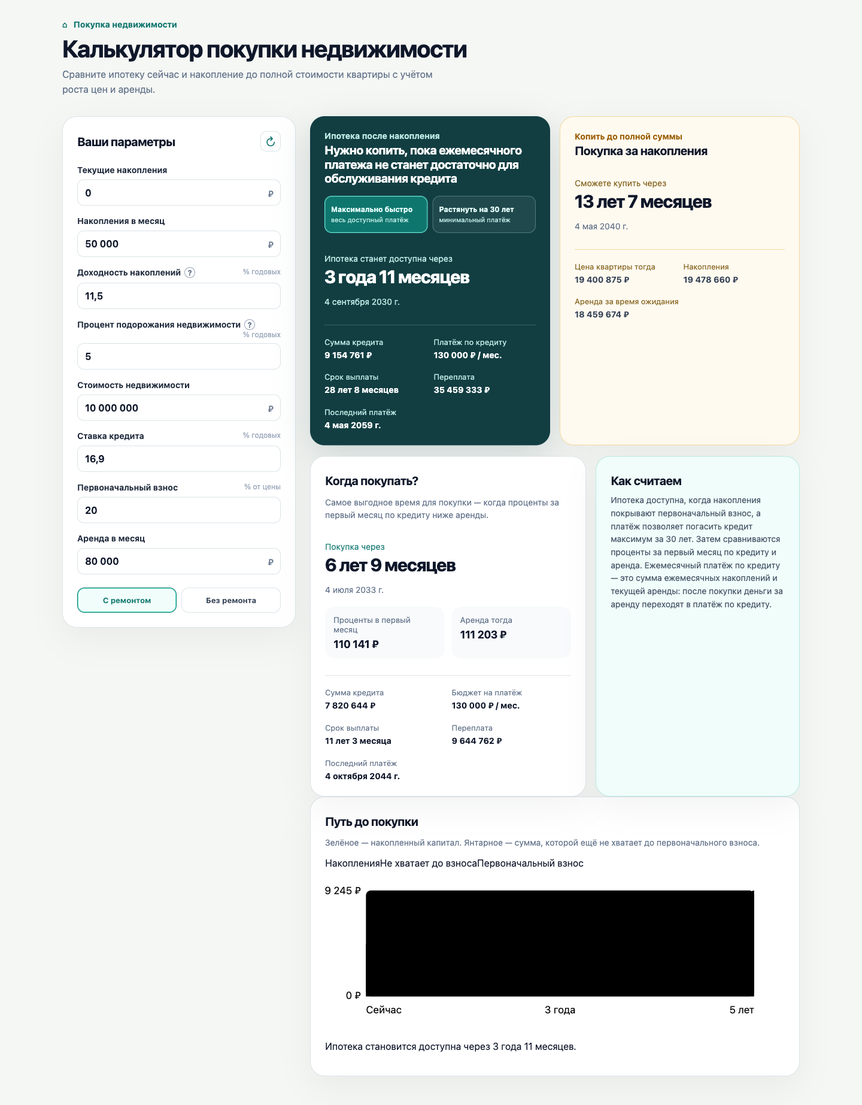
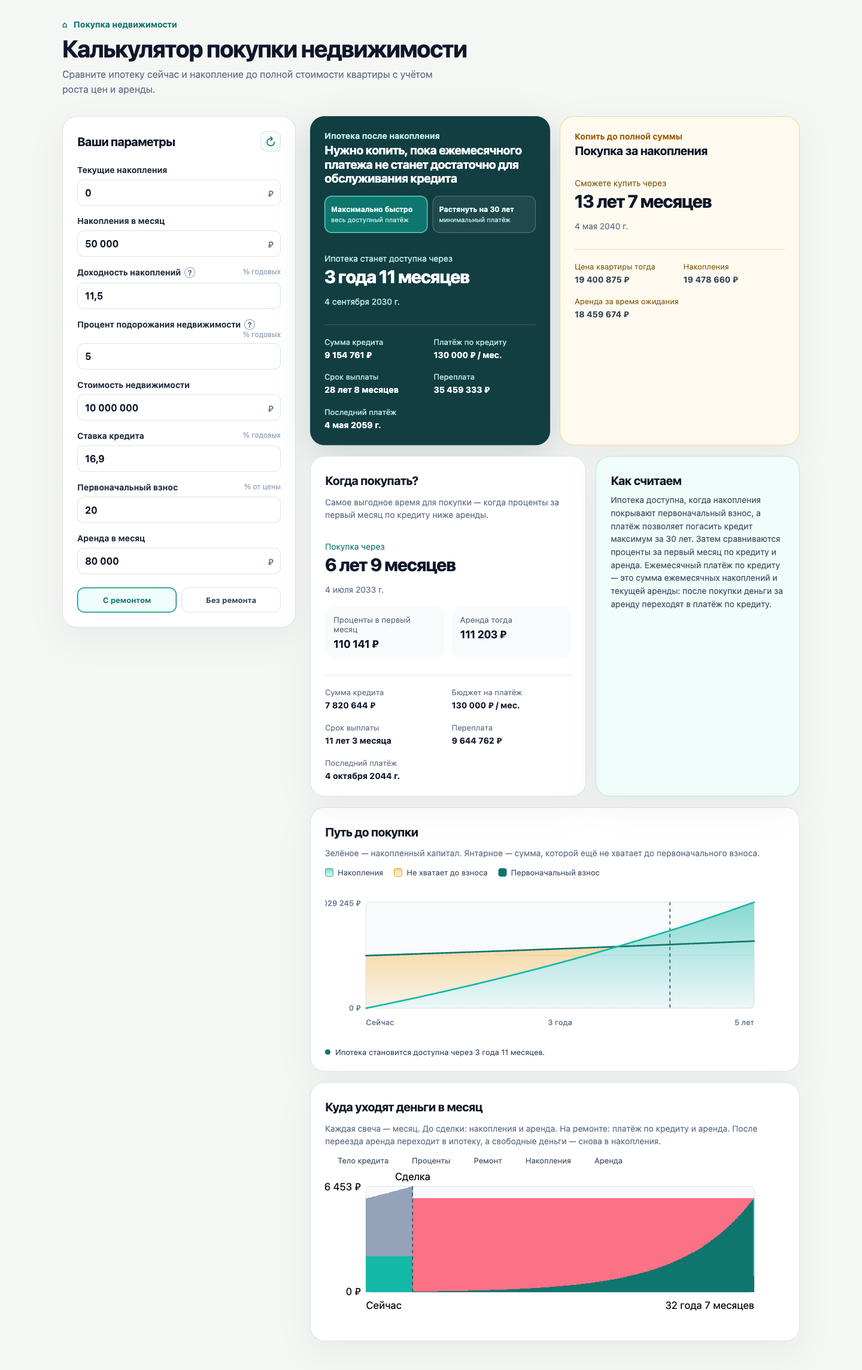
Add monthly cashflow stacked-bar chart (#10)
buildCashflow decomposes every month of the card's mortgage scenario
into principal, interest, renovation, savings and rent. The chart
shows the model's core story: the monthly envelope stays at
savings-plus-rent, with rent converting into the mortgage payment
after move-in. Tooltips per month, deal/move markers, README
section and screenshot.

diff --git a/src/App.vue b/src/App.vue
@@ -1,6 +1,6 @@
 <script setup>
 import { computed, nextTick, onMounted, reactive, ref } from 'vue';
-import { DEFAULTS, SIMULATION_HORIZON_MONTHS, RENOVATION_COST_SHARE, calculate, isMortgagePaymentTooLow, buildJourney, rentPaidUntilMonth } from './lib/model.js';
+import { DEFAULTS, SIMULATION_HORIZON_MONTHS, RENOVATION_COST_SHARE, calculate, isMortgagePaymentTooLow, buildJourney, buildCashflow, rentPaidUntilMonth } from './lib/model.js';
 import { addMonths, formatDate, duration } from './lib/format.js';
 
 const inputs = reactive({ ...DEFAULTS });
@@ -47,6 +47,41 @@ const setRenovationCost = (event) => {
 const result = computed(() => calculate(inputs, repaymentMode.value, { needed: renovationNeeded.value, cost: renovationCost.value, months: renovationMonths.value, funding: renovationFunding.value }));
 const mortgagePaymentTooLow = computed(() => isMortgagePaymentTooLow(result.value));
 const journey = computed(() => buildJourney(inputs, result.value.mortgageAffordable, result.value.mortgageAtDownPayment));
+const CASHFLOW_SEGMENTS = [
+  { key: 'principal', label: 'Тело кредита', pick: (row) => row.principal },
+  { key: 'interest', label: 'Проценты', pick: (row) => row.interest },
+  { key: 'renovation', label: 'Ремонт', pick: (row) => row.renovation },
+  { key: 'savings', label: 'Накопления', pick: (row) => row.savings },
+  { key: 'rent', label: 'Аренда', pick: (row) => row.rent }
+];
+const cashflow = computed(() => buildCashflow(inputs, repaymentMode.value, { needed: renovationNeeded.value, cost: renovationCost.value, months: renovationMonths.value, funding: renovationFunding.value }));
+const cashflowChart = computed(() => {
+  const data = cashflow.value;
+  if (!data) return null;
+  const total = data.rows.length;
+  const barWidth = 608 / total;
+  const rows = data.rows.map((row) => {
+    const segments = [];
+    let top = 200;
+    for (const segment of CASHFLOW_SEGMENTS) {
+      const value = segment.pick(row);
+      if (value < 0.5) continue;
+      const height = value / data.maximum * 166;
+      top -= height;
+      segments.push({ key: segment.key, y: top, height, label: segment.label, value });
+    }
+    const parts = segments.filter(({ value }) => value >= 1).map(({ label, value }) => `${label}: ${money.format(value)}`);
+    return { month: row.month, x: 64 + row.month * barWidth, segments, title: `${formatDate(addMonths(new Date(), row.month))} — ${parts.join(', ')}` };
+  });
+  const marker = (month) => 64 + month * barWidth;
+  return {
+    rows, barWidth,
+    maximum: data.maximum, maxLabel: money.format(data.maximum),
+    dealX: data.dealMonth > 0 ? marker(data.dealMonth) : null,
+    moveX: data.moveMonth > data.dealMonth ? marker(data.moveMonth) : null,
+    endLabel: duration(total)
+  };
+});
 const moveDate = (month) => month > SIMULATION_HORIZON_MONTHS ? 'Не достижимо' : formatDate(addMonths(new Date(), month));
 const moveRent = (month) => month > SIMULATION_HORIZON_MONTHS ? '—' : money.format(rentPaidUntilMonth(inputs, month));
 const reset = () => { Object.assign(inputs, DEFAULTS); focusedAmount.value = null; renovationNeeded.value = false; renovationFunding.value = 'before'; renovationMonths.value = 6; renovationCostDraft.value = null; renovationCostInput.value = ''; renovationFocused.value = false; };
@@ -76,5 +111,5 @@ onMounted(() => { const context = document.modelContext; if (!context?.registerT
     <p v-else class="empty">Первоначальный взнос не накапливается в горизонте 60 лет.</p>
   </article>
   <article class="card cash"><p class="kicker">Копить до полной суммы</p><h2>Покупка за накопления</h2><template v-if="result.cashPurchase"><p class="big-label">Сможете купить через</p><p class="big">{{ duration(result.cashPurchase.month) }}</p><p class="muted">{{ formatDate(addMonths(new Date(), result.cashPurchase.month)) }}</p><dl><div><dt>Цена квартиры тогда</dt><dd>{{ money.format(result.cashPurchase.price) }}</dd></div><div><dt>Накопления</dt><dd>{{ money.format(result.cashPurchase.balance) }}</dd></div><div class="wide"><dt>Аренда за время ожидания</dt><dd>{{ money.format(result.cashPurchase.rentPaid) }}</dd></div><div v-if="renovationNeeded" class="wide"><dt>Дата переезда</dt><dd>{{ moveDate(result.cashPurchase.moveMonth) }}</dd></div></dl></template><p v-else class="empty">При этих параметрах накопления не догоняют стоимость недвижимости за 60 лет. Увеличьте ежемесячный взнос или доходность вклада.</p></article></div>
-  <div class="bottom"><article class="card threshold"><h2>Когда покупать?</h2><p class="muted">Самое выгодное время для покупки — когда проценты за первый месяц по кредиту ниже аренды.</p><template v-if="result.thresholdPurchase"><p class="big-label">Покупка через</p><p class="big">{{ duration(result.thresholdPurchase.month) }}</p><p class="muted">{{ formatDate(addMonths(new Date(), result.thresholdPurchase.month)) }}</p><div class="year"><div><small>Проценты в первый месяц</small><strong>{{ money.format(result.thresholdPurchase.firstMonthInterest) }}</strong></div><div><small>Аренда тогда</small><strong>{{ money.format(result.thresholdPurchase.rent) }}</strong></div></div><dl><div><dt>Сумма кредита</dt><dd>{{ money.format(result.thresholdPurchase.principal) }}</dd></div><div><dt>Бюджет на платёж</dt><dd>{{ money.format(result.thresholdPurchase.payment) }} / мес.</dd></div><div><dt>Срок выплаты</dt><dd>{{ duration(result.thresholdPurchase.months) }}</dd></div><div><dt>Переплата</dt><dd>{{ money.format(result.thresholdPurchase.overpayment) }}</dd></div><div class="wide"><dt>Последний платёж</dt><dd>{{ formatDate(addMonths(addMonths(new Date(), result.thresholdPurchase.month), result.thresholdPurchase.months)) }}</dd></div><div v-if="renovationNeeded"><dt>Переезд</dt><dd>{{ moveDate(result.thresholdPurchase.moveMonth) }}</dd></div><div v-if="renovationNeeded" class="wide"><dt>Аренда до переезда</dt><dd>{{ moveRent(result.thresholdPurchase.moveMonth) }}</dd></div></dl></template><p v-else class="empty">В горизонте 60 лет условия покупки не выполняются.</p></article><aside class="card how"><h2>Как считаем</h2><p>Ипотека доступна, когда накопления покрывают первоначальный взнос, а платёж позволяет погасить кредит максимум за 30 лет. Затем сравниваются проценты за первый месяц по кредиту и аренда. Ежемесячный платёж по кредиту — это сумма ежемесячных накоплений и текущей аренды: после покупки деньги за аренду переходят в платёж по кредиту.</p><p v-if="renovationNeeded && renovationFunding === 'before'">Квартира без ремонта: цель накоплений — первоначальный взнос плюс стоимость ремонта, обе суммы растут вместе с ценой недвижимости. Сделка, затем ремонт — в это время аренда продолжается, а платёж по кредиту обслуживается только из ежемесячных накоплений. Аренда переходит в платёж по кредиту после переезда.</p><p v-if="renovationNeeded && renovationFunding === 'after'">Ремонт после покупки: сделка — при накоплении первоначального взноса. Пока ремонт не оплачен, кредит обслуживается 30-летним аннуитетом, а излишек «накопления минус аннуитет» идёт на ремонт поэтапно. Переезд — когда завершены и работы, и оплата; после переезда свободные деньги ускоряют погашение.</p></aside></div><article class="card journey-chart"><div><h2>Путь до покупки</h2><p class="muted">Зелёное — накопленный капитал. Янтарное — сумма, которой ещё не хватает до первоначального взноса.</p></div><div class="chart-legend"><span><i class="legend-savings"></i>Накопления</span><span><i class="legend-shortage"></i>Не хватает до взноса</span><span><i class="legend-down-payment"></i>Первоначальный взнос</span></div><svg viewBox="0 0 720 250" role="img" aria-label="График накоплений и первоначального взноса"><defs><linearGradient id="savings-fill" x1="0" x2="0" y1="0" y2="1"><stop offset="0" stop-color="#14b8a6" stop-opacity=".5"/><stop offset="1" stop-color="#14b8a6" stop-opacity=".05"/></linearGradient><linearGradient id="shortage-fill" x1="0" x2="0" y1="0" y2="1"><stop offset="0" stop-color="#f59e0b" stop-opacity=".35"/><stop offset="1" stop-color="#f59e0b" stop-opacity=".08"/></linearGradient></defs><rect class="chart-frame" x="64" y="34" width="608" height="166" rx="8"/><line class="chart-grid" x1="64" y1="117" x2="672" y2="117"/><path class="chart-area-savings" :d="journey.savingsArea"/><path v-if="journey.shortageArea" class="chart-area-shortage" :d="journey.shortageArea"/><line v-if="journey.markerX !== null" class="chart-marker" :x1="journey.markerX" y1="34" :x2="journey.markerX" y2="200"/><path class="chart-line chart-down-payment" :d="journey.requiredPath"/><path class="chart-line chart-savings" :d="journey.savingsPath"/><text x="56" y="40" text-anchor="end">{{ money.format(journey.maximum) }}</text><text x="56" y="204" text-anchor="end">0 ₽</text><text x="64" y="226">Сейчас</text><text :x="journey.middleX" y="226" text-anchor="middle">{{ journey.middleLabel }}</text><text x="672" y="226" text-anchor="end">{{ journey.endLabel }}</text></svg><p v-if="journey.markerLabel" class="chart-note"><span></span>Ипотека становится доступна через {{ journey.markerLabel }}.</p><p v-else class="chart-note muted">В ближайшие 30 лет ипотека не становится доступна при текущих параметрах.</p></article></section></div></main>
+  <div class="bottom"><article class="card threshold"><h2>Когда покупать?</h2><p class="muted">Самое выгодное время для покупки — когда проценты за первый месяц по кредиту ниже аренды.</p><template v-if="result.thresholdPurchase"><p class="big-label">Покупка через</p><p class="big">{{ duration(result.thresholdPurchase.month) }}</p><p class="muted">{{ formatDate(addMonths(new Date(), result.thresholdPurchase.month)) }}</p><div class="year"><div><small>Проценты в первый месяц</small><strong>{{ money.format(result.thresholdPurchase.firstMonthInterest) }}</strong></div><div><small>Аренда тогда</small><strong>{{ money.format(result.thresholdPurchase.rent) }}</strong></div></div><dl><div><dt>Сумма кредита</dt><dd>{{ money.format(result.thresholdPurchase.principal) }}</dd></div><div><dt>Бюджет на платёж</dt><dd>{{ money.format(result.thresholdPurchase.payment) }} / мес.</dd></div><div><dt>Срок выплаты</dt><dd>{{ duration(result.thresholdPurchase.months) }}</dd></div><div><dt>Переплата</dt><dd>{{ money.format(result.thresholdPurchase.overpayment) }}</dd></div><div class="wide"><dt>Последний платёж</dt><dd>{{ formatDate(addMonths(addMonths(new Date(), result.thresholdPurchase.month), result.thresholdPurchase.months)) }}</dd></div><div v-if="renovationNeeded"><dt>Переезд</dt><dd>{{ moveDate(result.thresholdPurchase.moveMonth) }}</dd></div><div v-if="renovationNeeded" class="wide"><dt>Аренда до переезда</dt><dd>{{ moveRent(result.thresholdPurchase.moveMonth) }}</dd></div></dl></template><p v-else class="empty">В горизонте 60 лет условия покупки не выполняются.</p></article><aside class="card how"><h2>Как считаем</h2><p>Ипотека доступна, когда накопления покрывают первоначальный взнос, а платёж позволяет погасить кредит максимум за 30 лет. Затем сравниваются проценты за первый месяц по кредиту и аренда. Ежемесячный платёж по кредиту — это сумма ежемесячных накоплений и текущей аренды: после покупки деньги за аренду переходят в платёж по кредиту.</p><p v-if="renovationNeeded && renovationFunding === 'before'">Квартира без ремонта: цель накоплений — первоначальный взнос плюс стоимость ремонта, обе суммы растут вместе с ценой недвижимости. Сделка, затем ремонт — в это время аренда продолжается, а платёж по кредиту обслуживается только из ежемесячных накоплений. Аренда переходит в платёж по кредиту после переезда.</p><p v-if="renovationNeeded && renovationFunding === 'after'">Ремонт после покупки: сделка — при накоплении первоначального взноса. Пока ремонт не оплачен, кредит обслуживается 30-летним аннуитетом, а излишек «накопления минус аннуитет» идёт на ремонт поэтапно. Переезд — когда завершены и работы, и оплата; после переезда свободные деньги ускоряют погашение.</p></aside></div><article class="card journey-chart"><div><h2>Путь до покупки</h2><p class="muted">Зелёное — накопленный капитал. Янтарное — сумма, которой ещё не хватает до первоначального взноса.</p></div><div class="chart-legend"><span><i class="legend-savings"></i>Накопления</span><span><i class="legend-shortage"></i>Не хватает до взноса</span><span><i class="legend-down-payment"></i>Первоначальный взнос</span></div><svg viewBox="0 0 720 250" role="img" aria-label="График накоплений и первоначального взноса"><defs><linearGradient id="savings-fill" x1="0" x2="0" y1="0" y2="1"><stop offset="0" stop-color="#14b8a6" stop-opacity=".5"/><stop offset="1" stop-color="#14b8a6" stop-opacity=".05"/></linearGradient><linearGradient id="shortage-fill" x1="0" x2="0" y1="0" y2="1"><stop offset="0" stop-color="#f59e0b" stop-opacity=".35"/><stop offset="1" stop-color="#f59e0b" stop-opacity=".08"/></linearGradient></defs><rect class="chart-frame" x="64" y="34" width="608" height="166" rx="8"/><line class="chart-grid" x1="64" y1="117" x2="672" y2="117"/><path class="chart-area-savings" :d="journey.savingsArea"/><path v-if="journey.shortageArea" class="chart-area-shortage" :d="journey.shortageArea"/><line v-if="journey.markerX !== null" class="chart-marker" :x1="journey.markerX" y1="34" :x2="journey.markerX" y2="200"/><path class="chart-line chart-down-payment" :d="journey.requiredPath"/><path class="chart-line chart-savings" :d="journey.savingsPath"/><text x="56" y="40" text-anchor="end">{{ money.format(journey.maximum) }}</text><text x="56" y="204" text-anchor="end">0 ₽</text><text x="64" y="226">Сейчас</text><text :x="journey.middleX" y="226" text-anchor="middle">{{ journey.middleLabel }}</text><text x="672" y="226" text-anchor="end">{{ journey.endLabel }}</text></svg><p v-if="journey.markerLabel" class="chart-note"><span></span>Ипотека становится доступна через {{ journey.markerLabel }}.</p><p v-else class="chart-note muted">В ближайшие 30 лет ипотека не становится доступна при текущих параметрах.</p></article><article v-if="cashflowChart" class="card cashflow-chart"><div><h2>Куда уходят деньги в месяц</h2><p class="muted">Каждая свеча — месяц. До сделки: накопления и аренда. На ремонте: платёж по кредиту и аренда. После переезда аренда переходит в ипотеку, а свободные деньги — снова в накопления.</p></div><div class="chart-legend"><span><i class="cf-principal"></i>Тело кредита</span><span><i class="cf-interest"></i>Проценты</span><span><i class="cf-renovation"></i>Ремонт</span><span><i class="cf-savings"></i>Накопления</span><span><i class="cf-rent"></i>Аренда</span></div><svg viewBox="0 0 720 250" role="img" aria-label="Ежемесячное распределение платежей по категориям"><rect class="chart-frame" x="64" y="34" width="608" height="166" rx="8"/><line class="chart-grid" x1="64" y1="117" x2="672" y2="117"/><g v-for="row in cashflowChart.rows" :key="row.month"><title>{{ row.title }}</title><rect v-for="seg in row.segments" :key="seg.key" :class="'cf-' + seg.key" :x="row.x" :y="seg.y" :width="cashflowChart.barWidth + 0.4" :height="seg.height"/></g><line v-if="cashflowChart.dealX !== null" class="chart-marker" :x1="cashflowChart.dealX" y1="34" :x2="cashflowChart.dealX" y2="200"/><text v-if="cashflowChart.dealX !== null" :x="cashflowChart.dealX" y="24" text-anchor="middle">Сделка</text><line v-if="cashflowChart.moveX !== null" class="chart-marker" :x1="cashflowChart.moveX" y1="34" :x2="cashflowChart.moveX" y2="200"/><text v-if="cashflowChart.moveX !== null" :x="cashflowChart.moveX" y="24" text-anchor="middle">Переезд</text><text x="56" y="40" text-anchor="end">{{ cashflowChart.maxLabel }}</text><text x="56" y="204" text-anchor="end">0 ₽</text><text x="64" y="226">Сейчас</text><text x="672" y="226" text-anchor="end">{{ cashflowChart.endLabel }}</text></svg></article></section></div></main>
 </template>

diff --git a/src/lib/model.js b/src/lib/model.js
@@ -70,6 +70,21 @@ export const selectedRenovationLoanPlan = (principal, capacityDuring, capacityAf
   return plan && { ...plan, payment };
 };
 
+export const loanScheduleStepped = (principal, paymentDuring, paymentAfter, annualRate, switchMonth, maxMonths) => {
+  if (principal <= 0) return [];
+  const rate = annualRate / 100 / 12;
+  let balance = principal;
+  const rows = [];
+  for (let month = 1; month <= maxMonths && balance >= 0.01; month += 1) {
+    const interest = balance * rate;
+    const payment = Math.min(month <= switchMonth ? paymentDuring : paymentAfter, balance + interest);
+    const principalPart = payment - interest;
+    balance -= principalPart;
+    rows.push({ interest, principal: principalPart });
+  }
+  return rows;
+};
+
 export const afterPurchaseSchedule = (principal, capacityDuring, annualRate, renovationCost, renovationMonths) => {
   const annuity = paymentForTerm(principal, annualRate);
   if (annuity > capacityDuring + 0.01) return null;
@@ -182,6 +197,69 @@ export const calculate = (rawInputs, repaymentMode, renovation = NO_RENOVATION) 
     firstMortgagePaymentTooLow, mortgageAffordable, cashPurchase, thresholdPurchase, propertyInYear: propertyPrice * propertyGrowth, rentInYear: rent * rentGrowth,
     ...(renoActive ? { moveMonth: currentLag, renovationCost: renoCostAt(0), upfrontCost } : {})
   };
+};
+
+export const buildCashflow = (rawInputs, repaymentMode, renovation = NO_RENOVATION) => {
+  const plan = calculate(rawInputs, repaymentMode, renovation).mortgageAtDownPayment;
+  if (!plan || plan.months === null) return null;
+  const number = (key) => Math.max(0, Number(rawInputs[key]) || 0);
+  const monthlySavings = number('monthlySavings'), inflation = number('inflation'), rent = number('rent'), mortgageRate = number('mortgageRate');
+  const propertyGrowth = 1 + inflation / 100;
+  const rentAtMonth = (month) => rent * Math.pow(propertyGrowth, month / 12);
+  const renoActive = Boolean(renovation?.needed);
+  const renoMonths = renoActive ? Math.max(0, Math.round(Number(renovation.months) || 0)) : 0;
+  const fundingAfter = renoActive && renovation.funding === 'after';
+  const renoCostAt = (month) => renoActive ? Math.max(0, Number(renovation.cost) || 0) * Math.pow(propertyGrowth, month / 12) : 0;
+  const dealMonth = plan.month;
+  const moveMonth = plan.moveMonth ?? dealMonth;
+  const lag = moveMonth - dealMonth;
+  const renoCostDeal = renoCostAt(dealMonth);
+  let schedule = [];
+  if (plan.principal > 0) {
+    if (!renoActive) schedule = loanScheduleStepped(plan.principal, plan.payment, plan.payment, mortgageRate, 0, plan.months + 1);
+    else if (fundingAfter) {
+      const bought = afterPurchaseSchedule(plan.principal, monthlySavings, mortgageRate, renoCostDeal, renoMonths);
+      const annuity = bought?.annuity ?? paymentForTerm(plan.principal, mortgageRate);
+      const capacityAfter = repaymentMode === 'fast' ? monthlySavings + rent : annuity;
+      schedule = loanScheduleStepped(plan.principal, annuity, capacityAfter, mortgageRate, lag, plan.months + lag + 1);
+    } else {
+      const during = repaymentMode === 'fast' ? monthlySavings : plan.payment;
+      const capacityAfter = repaymentMode === 'fast' ? monthlySavings + rent : plan.payment;
+      schedule = loanScheduleStepped(plan.principal, during, capacityAfter, mortgageRate, lag, plan.months + lag + 1);
+    }
+  }
+  const accumulationReno = renoActive && !fundingAfter && dealMonth > 0 ? renoCostDeal / dealMonth : 0;
+  const dealRenoLump = renoActive && !fundingAfter && dealMonth === 0 ? renoCostDeal : 0;
+  let renoPaid = 0;
+  const rows = [];
+  const totalMonths = Math.min(SIMULATION_HORIZON_MONTHS, dealMonth + Math.max(plan.months, lag, 1));
+  for (let month = 0; month < totalMonths; month += 1) {
+    const entry = month >= dealMonth ? schedule[month - dealMonth] : null;
+    const principalPaid = Math.max(0, entry?.principal ?? 0);
+    const paymentActual = entry ? entry.interest + entry.principal : 0;
+    const interestPaid = Math.max(0, paymentActual - principalPaid);
+    const row = { month, savings: 0, rent: 0, renovation: 0, interest: interestPaid, principal: principalPaid };
+    if (month < dealMonth) {
+      row.savings = Math.max(0, monthlySavings - accumulationReno);
+      row.renovation = Math.min(accumulationReno, monthlySavings);
+      row.rent = rentAtMonth(month);
+    } else if (month < moveMonth) {
+      row.rent = rentAtMonth(month);
+      if (fundingAfter) {
+        row.renovation = Math.min(Math.max(0, monthlySavings - paymentActual), Math.max(0, renoCostDeal - renoPaid));
+        renoPaid += row.renovation;
+      } else if (dealRenoLump && month === dealMonth) {
+        row.renovation = dealRenoLump;
+      }
+      row.savings = Math.max(0, monthlySavings - paymentActual - row.renovation);
+    } else {
+      row.savings = Math.max(0, monthlySavings + rent - paymentActual);
+    }
+    rows.push(row);
+  }
+  if (!rows.length) return null;
+  const maximum = Math.max(1, ...rows.map(({ savings, rent: rentPart, renovation, interest, principal }) => savings + rentPart + renovation + interest + principal));
+  return { rows, dealMonth, moveMonth, maximum };
 };
 
 export const isMortgagePaymentTooLow = (result) => result.hasDownPayment ? result.months === null : result.firstMortgagePaymentTooLow;

diff --git a/src/lib/model.test.js b/src/lib/model.test.js
@@ -1,5 +1,5 @@
 import { describe, expect, it } from 'vitest';
-import { DEFAULTS, NO_RENOVATION, RENOVATION_COST_SHARE, SIMULATION_HORIZON_MONTHS, loanPlan, loanPlanStepped, paymentForTerm, selectedLoanPlan, selectedRenovationLoanPlan, afterPurchaseSchedule, calculate, isMortgagePaymentTooLow, buildJourney, rentPaidUntilMonth } from './model.js';
+import { DEFAULTS, NO_RENOVATION, RENOVATION_COST_SHARE, SIMULATION_HORIZON_MONTHS, loanPlan, loanPlanStepped, loanScheduleStepped, paymentForTerm, selectedLoanPlan, selectedRenovationLoanPlan, afterPurchaseSchedule, calculate, isMortgagePaymentTooLow, buildJourney, buildCashflow, rentPaidUntilMonth } from './model.js';
 import { plural, yearsLabel, monthsLabel, duration } from './format.js';
 import expected from './model.characterization.json';
 
@@ -292,6 +292,77 @@ describe('rentPaidUntilMonth', () => {
   it('grows with the month index and is zero at move-in now', () => {
     expect(rentPaidUntilMonth(DEFAULTS, 0)).toBe(0);
     expect(rentPaidUntilMonth(DEFAULTS, 200)).toBeGreaterThan(rentPaidUntilMonth(DEFAULTS, 100));
+  });
+});
+
+describe('buildCashflow', () => {
+  const total = (row) => row.savings + row.rent + row.renovation + row.interest + row.principal;
+  const sum = (rows, key) => rows.reduce((acc, row) => acc + row[key], 0);
+  const zero = { ...DEFAULTS, inflation: 0, depositRate: 0 };
+
+  it('returns null when no feasible mortgage plan exists', () => {
+    expect(buildCashflow({ ...DEFAULTS, monthlySavings: 1000, rent: 0 }, 'fast')).toBeNull();
+  });
+
+  it('accumulation months split into savings and rent; loan months into principal and interest', () => {
+    const data = buildCashflow({ ...zero, rent: 0 }, 'fast');
+    expect(data.rows[0]).toEqual({ month: 0, savings: 50000, rent: 0, renovation: 0, interest: 0, principal: 0 });
+    const loanRow = data.rows[data.dealMonth];
+    expect(loanRow.rent).toBe(0);
+    expect(loanRow.principal).toBeGreaterThan(0);
+    expect(loanRow.interest).toBeGreaterThan(0);
+    expect(loanRow.principal + loanRow.interest).toBeCloseTo(50000, 1);
+  });
+
+  it('keeps every month total at savings-plus-rent (rent converts into the mortgage payment)', () => {
+    for (const [name, renovation] of [
+      ['no-renovation', NO_RENOVATION],
+      ['before', { needed: true, cost: 1500000, months: 6, funding: 'before' }],
+      ['after', { needed: true, cost: 1500000, months: 6, funding: 'after' }],
+    ]) {
+      const data = buildCashflow(DEFAULTS, 'fast', renovation);
+      const rentAt = (month) => 80000 * Math.pow(1.05, month / 12);
+      for (const row of data.rows) {
+        const expected = 50000 + (row.month < data.moveMonth ? rentAt(row.month) : 80000);
+        expect(total(row)).toBeCloseTo(expected, 0);
+      }
+      expect(data.rows.length).toBeGreaterThan(0);
+    }
+  });
+
+  it('«накопить до»: renovation is spread over the accumulation months and sums to its indexed cost', () => {
+    const data = buildCashflow({ ...zero, propertyPrice: 2500000, savings: 0, monthlySavings: 100000, rent: 0 }, 'fast', { needed: true, cost: 300000, months: 6, funding: 'before' });
+    expect(data.dealMonth).toBe(8);
+    expect(data.moveMonth).toBe(14);
+    for (let month = 0; month < data.dealMonth; month += 1) {
+      expect(data.rows[month].renovation).toBeCloseTo(37500, 1);
+      expect(data.rows[month].savings).toBeCloseTo(62500, 1);
+    }
+    expect(sum(data.rows, 'renovation')).toBeCloseTo(300000, 1);
+    for (let month = data.dealMonth; month < data.moveMonth; month += 1) {
+      expect(data.rows[month].principal + data.rows[month].interest).toBeCloseTo(100000, 1);
+      expect(data.rows[month].rent).toBe(0);
+    }
+  });
+
+  it('«после покупки»: renovation equals the monthly surplus until the cost is covered', () => {
+    const data = buildCashflow({ ...zero, propertyPrice: 4000000, savings: 3400000, monthlySavings: 100000, rent: 0 }, 'fast', { needed: true, cost: 1200000, months: 6, funding: 'after' });
+    expect(data.dealMonth).toBe(0);
+    expect(data.moveMonth).toBe(14);
+    expect(sum(data.rows, 'renovation')).toBeCloseTo(1200000, 1);
+    for (let month = 0; month < 13; month += 1) {
+      expect(data.rows[month].renovation + data.rows[month].principal + data.rows[month].interest).toBeCloseTo(100000, 1);
+      expect(data.rows[month].savings).toBe(0);
+    }
+    expect(data.rows[13].renovation).toBeLessThan(data.rows[0].renovation);
+  });
+
+  it('loan payments match the amortization plan', () => {
+    const inputs = { ...zero, rent: 0, monthlySavings: 100000, propertyPrice: 2500000, savings: 0 };
+    const plan = calculate(inputs, 'fast').mortgageAtDownPayment;
+    const data = buildCashflow(inputs, 'fast');
+    expect(sum(data.rows, 'principal')).toBeCloseTo(plan.principal, 1);
+    expect(sum(data.rows, 'principal') + sum(data.rows, 'interest')).toBeCloseTo(plan.principal + plan.overpayment, 1);
   });
 });
 

diff --git a/src/style.css b/src/style.css
@@ -43,5 +43,7 @@ dl { display: grid; grid-template-columns: repeat(2, minmax(0, 1fr)); gap: 20px 
 .chart-marker { stroke: #334155; stroke-width: 1.5; stroke-dasharray: 5 5; }
 .journey-chart text { fill: #64748b; font-size: 12px; font-weight: 500; }
 .chart-note { display: flex; align-items: center; gap: 8px; margin: 12px 0 0; font-size: 13px; color: #334155; }.chart-note span { width: 9px; height: 9px; border-radius: 50%; background: #0f766e; flex: none; }.chart-note.muted { color: #64748b; }
+.cashflow-chart { margin-top: 18px; }.cashflow-chart svg g rect { shape-rendering: crispEdges; }
+.cf-principal { fill: #0f766e; }.cf-interest { fill: #fb7185; }.cf-renovation { fill: #f59e0b; }.cf-savings { fill: #14b8a6; }.cf-rent { fill: #94a3b8; }
 @media (max-width: 900px) { .layout { grid-template-columns: 1fr; }.inputs { grid-template-columns: 1fr 1fr; } }
 @media (max-width: 620px) { main { padding: 22px 16px 32px; } header { align-items: start; flex-direction: column; margin-bottom: 20px; }.inputs, .cards, .bottom, .year { grid-template-columns: 1fr; }.panel, .card { padding: 20px; border-radius: 20px; } }

diff --git a/README.md b/README.md
@@ -44,6 +44,12 @@
 
 На графике видно, как растут накопления (зелёная область) и сколько ещё не хватает до первоначального взноса (янтарная). Маркер — месяц, когда ипотека становится доступной.
 
+## Куда уходят деньги в месяц
+
+Вторая диаграмма — стековые свечи по месяцам: тело кредита, проценты, ремонт, накопления и аренда. До сделки месячный бюджет делится между накоплениями и арендой; на ремонте аренда продолжается, а платёж по кредиту обслуживается из накоплений; после переезда аренда переходит в ипотеку, и свободные деньги снова идут в накопления.
+
+![Куда уходят деньги в месяц](docs/screenshots/cashflow.png)
+
 ## Параметры
 
 | Параметр | По умолчанию | Пояснение |
